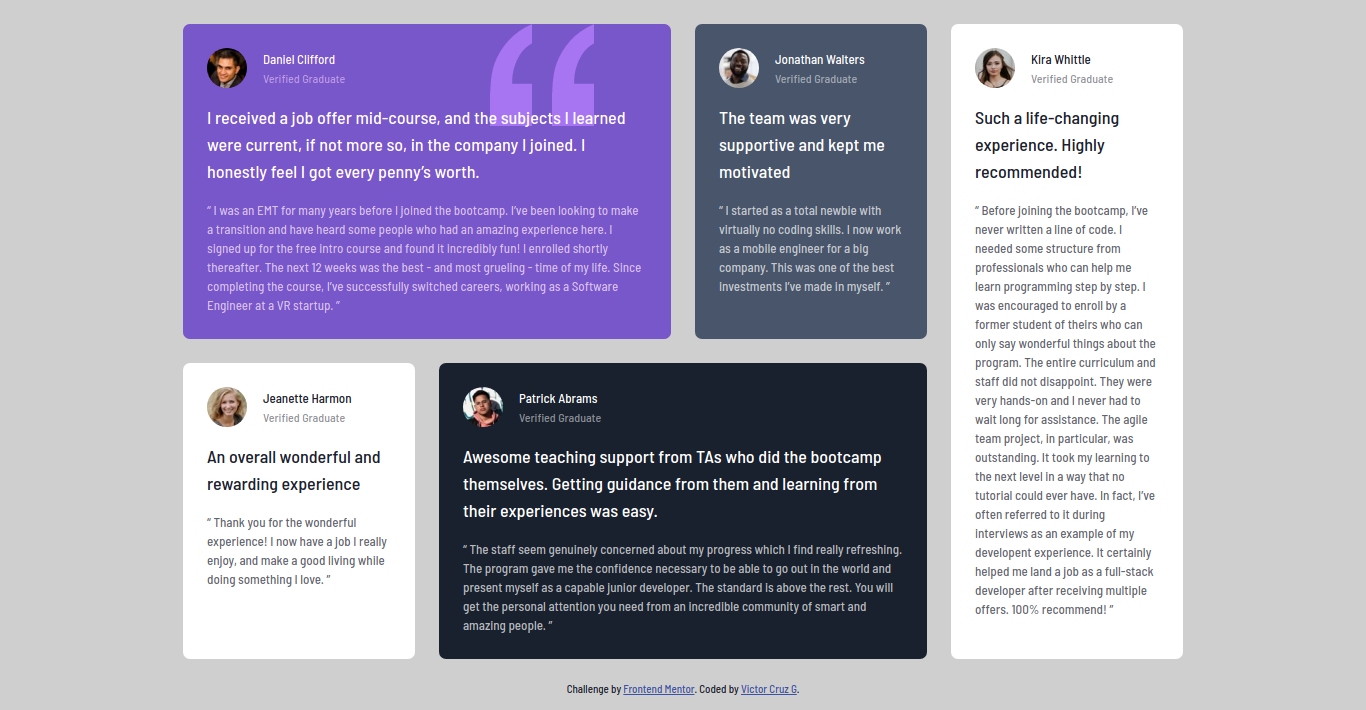
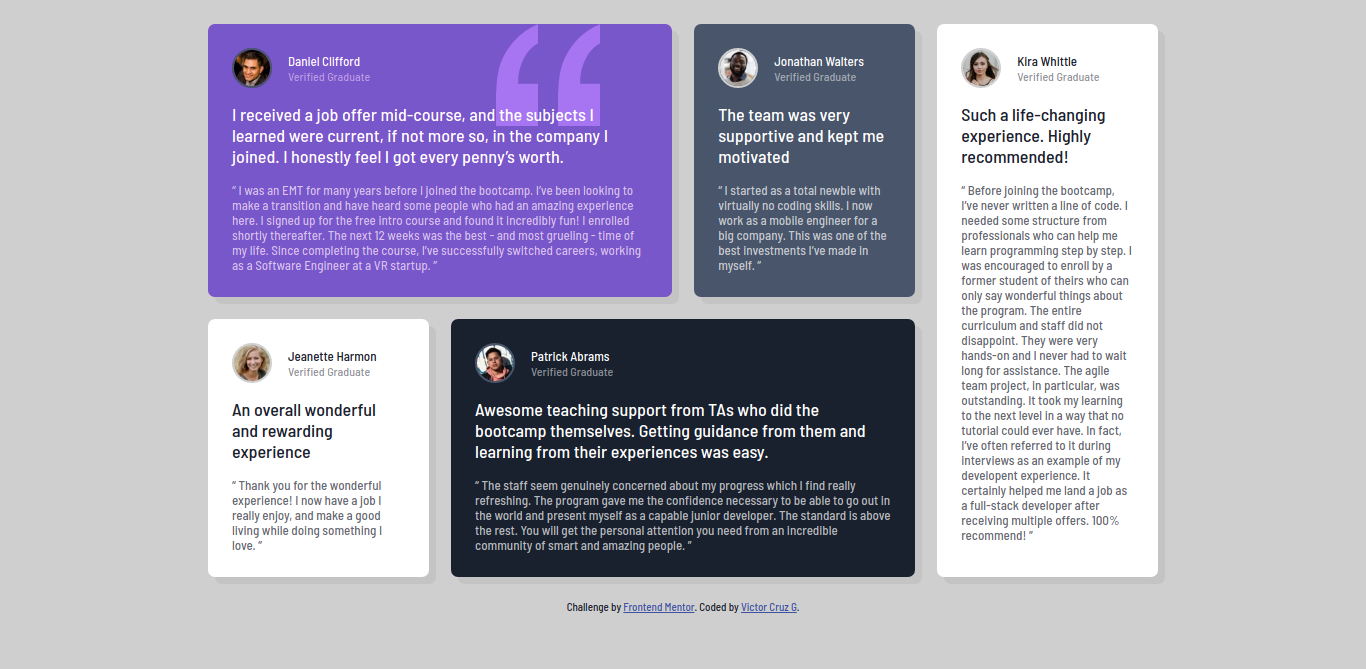
Update README

Changed region(s): [[0.123, 0.0299, 0.8917, 0.9268], [0.3997, 0.9567, 0.5842, 0.9865]]

diff --git a/README.md b/README.md
@@ -1,7 +1,43 @@
 # FrontEnd Mentor Challenges
 
-## Projects
+Those are my solution to challenges in [Fronten Mentor](https://www.frontendmentor.io/)
 
-### 3-column-preview-card
+## 3 Column preview card.
+
+This is my solution to the [3-column preview card component challenge on Frontend Mentor](https://www.frontendmentor.io/challenges/3column-preview-card-component-pH92eAR2-).
+
+### Links
 
 [Preview on Github Pages](https://vicc30.github.io/frontend-mentor-challenges/3-column-preview-card/)
+
+[Github Repo](https://github.com/vicc30/frontend-mentor-challenges/tree/main/3-column-preview-card)
+
+### Screenshots
+
+Web version
+
+![](./3-column-preview-card/images/3-column%20preview%20card%20component%20.png)
+
+Mobile version
+
+![](./3-column-preview-card/images/3-column-preview-card-component-mobile.png)
+
+## Testimonial grid
+
+This is my solution to the [Testimonials grid section challenge on Frontend Mentor](https://www.frontendmentor.io/challenges/testimonials-grid-section-Nnw6J7Un7).
+
+### Links
+
+[Preview on Github Pages](https://vicc30.github.io/frontend-mentor-challenges/3-column-preview-card/)
+
+[Github Repo](https://github.com/vicc30/frontend-mentor-challenges/tree/main/3-column-preview-card)
+
+### Screenshots
+
+Web version
+
+![](testimonials-grid-section/images/screenshot-large.jpg)
+
+Mobile version
+
+![](testimonials-grid-section/images/screenshot-mobile.png)

diff --git a/3-column-preview-card/README.md b/3-column-preview-card/README.md
@@ -20,8 +20,6 @@ This exercise was sugested by ours BEDU's mentors [Peter]() and [Dany]()
   - [Author](#author)
   - [Acknowledgments](#acknowledgments)
 
-**Note: Delete this note and update the table of contents based on what sections you keep.**
-
 ## Overview
 
 ### The challenge
@@ -41,8 +39,8 @@ Users should be able to:
 
 ### Links
 
-- Solution URL: [Add solution URL here]()
-- Live Site URL: [Add live site URL here]()
+- Solution URL: [Add solution URL here](https://github.com/vicc30/frontend-mentor-challenges/tree/main/3-column-preview-card)
+- Live Site URL: [Add live site URL here](https://vicc30.github.io/frontend-mentor-challenges/3-column-preview-card/)
 
 ## My process
 
